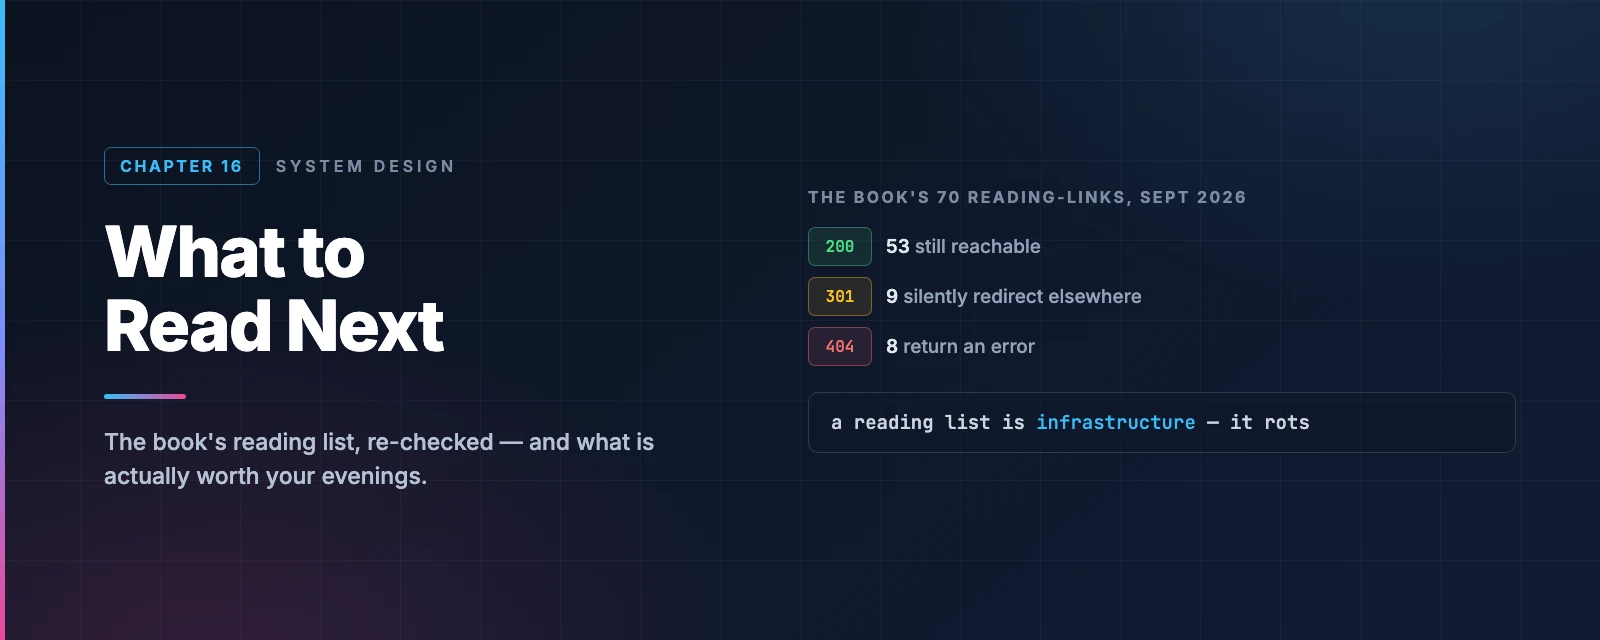
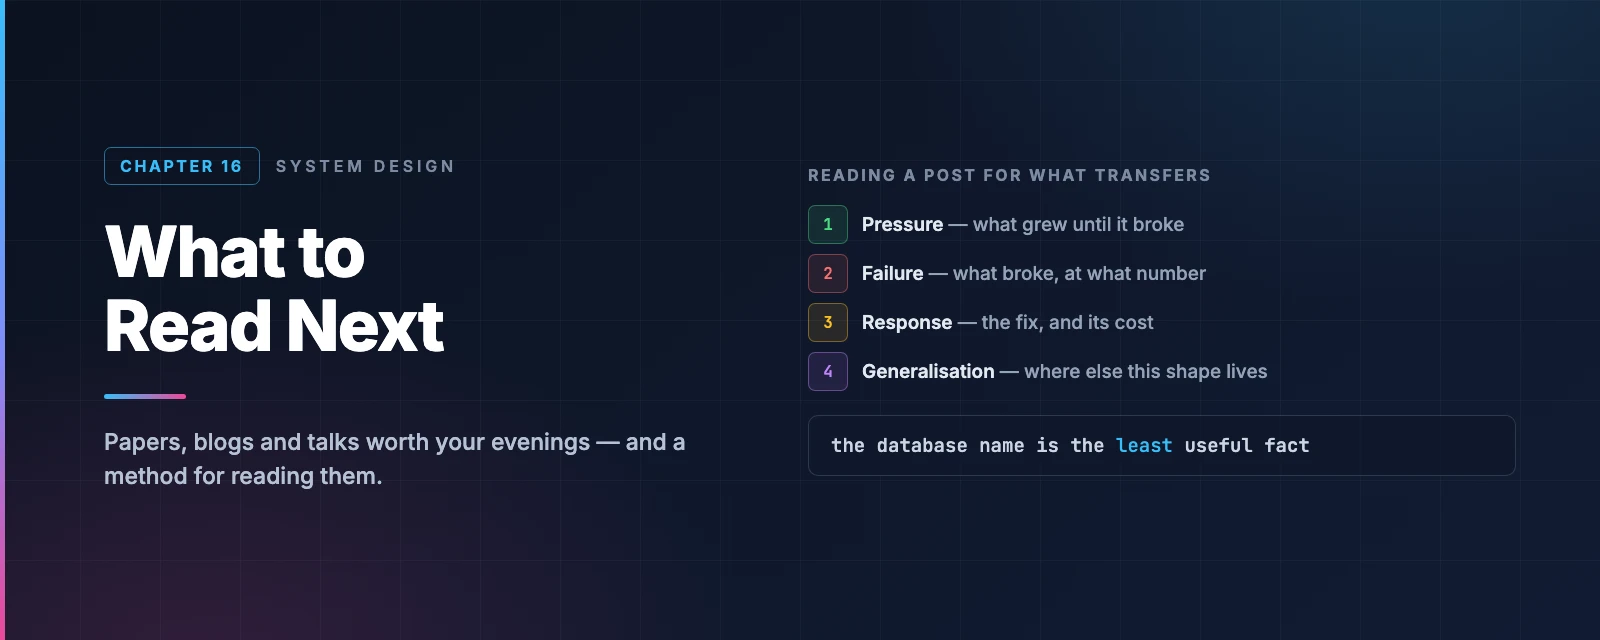
Rewrite Chapter 16 around the method, not the reading list
Drops the link-rot audit entirely — it was about how the page was made,
not about anything a reader wants. Also removes the dead-blogs section,
the "latest post" columns, and every direct reference to the source book.
Where a link had rotted, the working URL simply appears; the reader never
needs to know there was a problem.

Rewritten for readability: shorter sentences, a concrete hook, an "in a
hurry, read these three" table near the top, and the Discord worked
example restructured as two dated posts with the twist made explicit.
The cover art now shows the four-part reading method instead of HTTP
status counts.

Claude-Session: https://claude.ai/code/session_011FHXEVUEHeYNhNFmvcZZMF

Changed region(s): [[0.5, 0.25, 0.8125, 0.625], [0.0625, 0.6562, 0.4375, 0.7812], [0.5, 0.625, 0.8438, 0.7188]]

diff --git a/content/posts/2026/what-to-read-next.md b/content/posts/2026/what-to-read-next.md
@@ -3,65 +3,34 @@ title: "What to Read Next: Engineering Blogs, Papers, and How to Read Them"
 image: /images/articles/what-to-read-next.webp
 toc: true
 date: 2026-06-03T10:00:00+00:00
-description: "The book's final chapter is a reading list — and eight of its links now return an error. Here is that list rebuilt and verified for 2026, plus the engineering blogs still worth a subscription, the papers that repay the effort, and a method for reading them that turns links into knowledge."
+description: "A method for reading an engineering blog post so it leaves you with something reusable — then the papers, architecture write-ups, engineering blogs and courses worth your evenings, and a cadence that turns reading into competence."
 tags: ["system-design", "learning", "engineering-blogs", "papers", "interviews", "career"]
 categories: ["Fundamentals"]
 url: /2026/06/what-to-read-next/
 ---
 
-The last chapter of *System Design Interview* is not a design. It is a list of links — real-world architectures and company engineering blogs — with the advice that reading them regularly makes you a better engineer.
+Fifteen designs down. So — what now?
 
-That advice is correct. The list is not.
+The usual answer is a list of engineering blogs. Here is one, further down the page. But a list on its own will not make you better, and it is worth being honest about why.
 
-I checked every one of its **70 reading-list links** in September 2026. Eight return an error. Nine redirect somewhere that is no longer an engineering blog. Several more survive only because a URL shortener is still forwarding them to a page that has itself moved twice. The book was published in 2020; that is what five years does to a bibliography.
+Try this. Think of the last engineering post you read. Can you say what problem the team had, what number it broke at, and what the fix cost them?
 
-So this chapter does two things the original could not. It rebuilds the list with every link verified. And — more usefully — it argues that a list is the least valuable part of a reading habit. **What matters is the method you bring to a post once you open it.**
+Most people can't. What survives is a brand and a technology: *"Discord uses ScyllaDB."* That is the one detail in the whole article you will never be able to use.
 
----
-
-## What link rot actually looks like
-
-Here is the audit, because the shape of the decay is itself instructive:
-
-| Outcome | Count | What it means |
-|---|---:|---|
-| Reachable | 53 | Resolves to something real (17 of these block automated checks but are live) |
-| Silently redirected | 9 | Returns 200, but the destination is not the thing that was linked |
-| Error | 8 | 400, 404 or 500 |
-
-The eight errors are worth naming, because each one failed in a different way:
-
-- **Three Facebook links** now land on a login wall. Two were Facebook *Notes* — a product that was discontinued in 2020, taking its published engineering writing with it. One pointed at `code.facebook.com`, retired in favour of `engineering.fb.com`, with no redirect for deep links.
-- **Two LinkedIn links** — including "A Brief History of Scaling LinkedIn," a genuinely good post — 404. The blog moved to `linkedin.com/blog/engineering` and the old paths were not preserved.
-- **`blogs.dropbox.com/tech`** 404s; the content lives at `dropbox.tech`.
-- **BitTorrent's engineering blog** returns a 500. It has effectively been abandoned.
-
-The nine silent redirects are the more dangerous category, because nothing *looks* broken:
-
-- **`engineering.pinterest.com`** now forwards to a **recruiting page**. The engineering blog itself moved to Medium.
-- **`redditblog.com`** forwards to `redditinc.com/news` — corporate press releases, not engineering.
-- **`developer.atlassian.com/blog`** lands on an unbranded WPEngine placeholder.
-
-A reader following the book today would conclude that Pinterest stopped publishing engineering content. Pinterest publishes constantly. The link just rotted.
-
-**The lesson that generalises:** a reading list is infrastructure, and infrastructure decays. Subscribe to feeds rather than bookmarking URLs — a feed follows the publisher when they migrate; a bookmark does not.
+So let's start with how to read, and then get to what.
 
 ---
 
 ## How to read an engineering blog post
 
-This is the part the original chapter skips, and it is the part that decides whether reading pays off.
-
-Most engineers read a post like Discord's [How Discord Stores Trillions of Messages](https://discord.com/blog/how-discord-stores-trillions-of-messages) the way they read news: absorb the narrative, remember "they moved to ScyllaDB," move on. Six months later, the only retrievable fact is the database name — which is the single *least* transferable thing in the article.
-
-The useful read extracts a **problem-pressure-response triple**:
+Every good post is telling the same four-part story, whether or not the author lays it out that way. Your job is to pull those four parts out.
 
 ```mermaid
 flowchart LR
-    P["<b>The pressure</b><br/>What quantity grew<br/>until something broke?"]
-    F["<b>The failure</b><br/>What exactly failed,<br/>and at what number?"]
-    R["<b>The response</b><br/>What changed, and<br/>what did it cost?"]
-    G["<b>The generalisation</b><br/>Which of my systems<br/>has this same shape?"]
+    P["<b>1 · Pressure</b><br/>What grew until<br/>something broke?"]
+    F["<b>2 · Failure</b><br/>What broke, and<br/>at what number?"]
+    R["<b>3 · Response</b><br/>What changed, and<br/>what did it cost?"]
+    G["<b>4 · Generalisation</b><br/>Where else does this<br/>shape show up?"]
 
     P --> F --> R --> G
 
@@ -71,36 +40,58 @@ flowchart LR
     style G fill:#fef3c7,stroke:#d97706,color:#78350f
 ```
 
-Discord has in fact written two posts about the same table, six years apart, and each contains a different triple. That makes them an unusually good worked example.
+Step 4 is the whole point. Steps 1–3 are about someone else's system. Step 4 is about yours.
 
-From the earlier [How Discord Stores Billions of Messages](https://discord.com/blog/how-discord-stores-billions-of-messages) (2017):
+### Worked example: Discord, twice
 
-> **Pressure:** a single channel accumulates messages forever, so its Cassandra partition grows without bound.
-> **Failure:** large partitions create GC pressure during compaction and cluster expansion — and, as the post puts it, "the data in it cannot be distributed around the cluster."
-> **Response:** add a time dimension to the partition key — `(channel_id, bucket)`, roughly 10-day buckets — keeping partitions under about 100 MB by construction.
-> **Generalisation:** *any* partition key built from an entity that accumulates over time, with no bounding dimension, will eventually produce an unbounded partition.
+Discord has written about the same database table twice, six years apart. Two posts, two completely different problems — which makes them a perfect pair to practise on.
 
-That last line is the asset. It applies to Kafka topics, to DynamoDB, to a sharded MySQL cluster — none of which are Cassandra. One post, read this way, gives you a lens you will reuse for years.
+**[The 2017 post](https://discord.com/blog/how-discord-stores-billions-of-messages)** — billions of messages, on Cassandra.
 
-The 2023 sequel is a *different* problem wearing similar clothes, which is exactly why reading both is instructive. Bucketing bounded partition **size**, but not partition **traffic**: a channel on a server with hundreds of thousands of members takes orders of magnitude more reads than one among friends, so specific partitions ran hot regardless of how small they were. The fix was not a better key — it was a Rust data-services layer that *coalesces* concurrent requests for the same row into a single database query, with routing by channel ID so that coalescing actually lands.
+> **Pressure.** A channel collects messages forever. Its Cassandra partition just keeps growing.
+> **Failure.** Huge partitions choke garbage collection during compaction. And, as the post puts it, "the data in it cannot be distributed around the cluster."
+> **Response.** Put time in the partition key: `(channel_id, bucket)`, with roughly 10-day buckets. Now no partition can exceed about 100 MB, by construction.
+> **Generalisation.** Any partition key built from something that accumulates forever, with nothing to bound it, will eventually blow up.
 
-> **Generalisation:** bounding the size of a partition says nothing about bounding the load on it. Those are two separate design problems, and solving the first can disguise the second.
+That last line is the part you keep. It has nothing to do with Cassandra — it applies just as well to Kafka topics, DynamoDB, or a sharded MySQL cluster. One post, read this way, hands you a lens you will reuse for years.
 
-Three habits make this concrete:
+**[The 2023 post](https://discord.com/blog/how-discord-stores-trillions-of-messages)** — trillions of messages, moving to ScyllaDB.
 
-1. **Read the numbers, not the adjectives.** "Massive scale" is worthless. Discord's "177 nodes down to 72, with p99 latency for historical messages falling from 40–125 ms to 15 ms" is worth the whole post: it tells you the regime the design was built for, and lets you check whether your problem is even in the same one. Most posts describe systems 100× larger than yours, and the design that follows is frequently wrong for you.
-2. **Find the sentence where they admit a cost.** Every honest post has one — "this increased write amplification," "we accepted eventual consistency here." That sentence is where the actual engineering is. A post without one is marketing.
-3. **Ask what they rejected.** The alternatives *not* taken tell you more about the constraints than the choice itself. The best posts state them; for the rest, reconstruct them yourself. That reconstruction is the same skill an interviewer is testing.
+Here is the twist, and it is a good one. Bucketing had capped how *big* a partition could get. It did nothing about how *busy* one could get.
+
+A channel on a server with hundreds of thousands of members gets orders of magnitude more reads than a channel among five friends. Those partitions ran hot no matter how small they were. And the fix was not a cleverer key — it was a Rust service in front of the database that collapses simultaneous requests for the same row into a single query.
+
+> **Generalisation.** Capping the *size* of a partition says nothing about capping the *load* on it. Two different problems — and solving the first one can hide the second.
+
+### Three habits that make this stick
+
+**Read the numbers, skip the adjectives.** "Massive scale" tells you nothing. "177 nodes down to 72, p99 for old messages from 40–125 ms to 15 ms" tells you everything: how big this system is, and whether yours is anywhere near it. Most posts describe systems a hundred times larger than yours, and their solution is often wrong for you.
+
+**Hunt for the sentence where they admit a cost.** "This increased write amplification." "We accepted eventual consistency here." Every honest post has one, and it is where the real engineering is hiding. A post without one is a recruiting ad.
+
+**Ask what they turned down.** The options a team rejected tell you more about their constraints than the one they picked. Good posts say so outright. For the rest, work it out yourself — that is the same muscle an interviewer is testing.
 
 ---
 
-## Real-world system architectures
+## In a hurry? Read these three
 
-The book's list, verified and updated. Where the original link died I have substituted the canonical source — usually the paper, which outlives the blog post.
+The rest of this page is long. If you close the tab after this section, take these:
 
-### The foundational papers
+| | What | Why |
+|---|---|---|
+| **1** | [The Dynamo paper](https://www.read.seas.harvard.edu/~kohler/class/cs239-w08/decandia07dynamo.pdf) (an evening) | Almost everything in [Chapter 6](/2026/05/design-a-key-value-store/) comes from here. Read it and half the field clicks into place. |
+| **2** | [*Designing Data-Intensive Applications*](https://dataintensive.net/) (a few months) | The single best book in this space. Nothing else is close. |
+| **3** | [Cloudflare's blog](https://blog.cloudflare.com/) (weekly) | The most consistently excellent engineering writing published anywhere right now. |
 
-These are the documents the rest of the field is built on. Each one introduced a mechanism you have already met in this series.
+Everything below is elaboration on those three.
+
+---
+
+## Papers worth your evenings
+
+A paper is slower going than a blog post and worth far more. Blog posts get rewritten, migrated and quietly deleted; papers sit still for twenty years.
+
+Each of these introduced something you have already met in this series — which means you are reading them with the answers in hand, and that is much easier than it sounds.
 
 - **[Dynamo: Amazon's Highly Available Key-value Store](https://www.read.seas.harvard.edu/~kohler/class/cs239-w08/decandia07dynamo.pdf)** (SOSP 2007) — consistent hashing, vector clocks, quorums, hinted handoff, Merkle-tree anti-entropy. If you read one paper from this list, read this one; [Chapter 6](/2026/05/design-a-key-value-store/) is essentially an exposition of it.
 - **[The Google File System](https://static.googleusercontent.com/media/research.google.com/zh-CN/us/archive/gfs-sosp2003.pdf)** (SOSP 2003) — the single-master-plus-chunkservers design that every distributed filesystem since has argued with.
@@ -109,12 +100,14 @@ These are the documents the rest of the field is built on. Each one introduced a
 - **[TAO: Facebook's Distributed Data Store for the Social Graph](https://cs.uwaterloo.ca/~brecht/courses/854-Emerging-2014/readings/data-store/tao-facebook-distributed-datastore-atc-2013.pdf)** (ATC 2013) — a read-optimised graph cache in front of sharded MySQL. Directly relevant to [the news feed chapter](/2026/06/design-news-feed-system/).
 - **[Scaling Memcache at Facebook](https://www.cs.bu.edu/~jappavoo/jappavoo.github.com/451/papers/memcache-fb.pdf)** (NSDI 2013) — the definitive treatment of cache stampedes, leases, and regional invalidation.
 - **[MapReduce: Simplified Data Processing on Large Clusters](https://research.google/pubs/mapreduce-simplified-data-processing-on-large-clusters/)** (OSDI 2004) — historically decisive, and still the clearest statement of the "move computation to data" idea.
-- **[Spanner: Google's Globally-Distributed Database](https://static.googleusercontent.com/media/research.google.com/en//archive/spanner-osdi2012.pdf)** (OSDI 2012) — external consistency bought with atomic clocks. Not in the book, and it should be: it is the strongest counter-argument to "you must give up consistency at scale."
+- **[Spanner: Google's Globally-Distributed Database](https://static.googleusercontent.com/media/research.google.com/en//archive/spanner-osdi2012.pdf)** (OSDI 2012) — external consistency bought with atomic clocks. The strongest counter-argument to "you must give up consistency at scale," and the reason CockroachDB and Spanner-likes exist.
 - **[In Search of an Understandable Consensus Algorithm (Raft)](https://raft.github.io/raft.pdf)** (ATC 2014) — consensus explained so that you can actually implement it. The reason etcd, Consul and CockroachDB exist.
 
-### Architecture write-ups
+## Architecture write-ups
 
-High Scalability catalogued production architectures for over a decade. **Its last post was in May 2024** — the archive is dormant but still valuable, and the links below are the current, working URLs after the site's 2024 migration.
+Want the shape of a whole system rather than one mechanism? These are the ones to read.
+
+High Scalability catalogued production architectures for over a decade. It no longer publishes, but the archive is one of the best surveys of how large systems were actually assembled — and unusually, it covers the *unglamorous* decisions.
 
 - [Amazon Architecture](https://highscalability.com/amazon-architecture/) — the origin of "every service is a service," pre-dating the word microservices.
 - [Google Architecture](https://highscalability.com/google-architecture/)
@@ -129,53 +122,55 @@ High Scalability catalogued production architectures for over a decade. **Its la
 - [Flickr Architecture](https://highscalability.com/flickr-architecture/)
 - [Facebook Timeline: Brought To You By The Power Of Denormalization](https://highscalability.com/facebook-timeline-brought-to-you-by-the-power-of-denormaliza/)
 
-### Talks
+## Talks
+
+Sometimes an engineer explaining their own system out loud beats anything written down.
 
 - **[Scale at Facebook](https://www.infoq.com/presentations/Scale-at-Facebook/)** — an operations-culture talk more than an architecture talk, and better for it.
 - **[Timelines at Scale](https://www.infoq.com/presentations/Twitter-Timeline-Scalability/)** — Raffi Krikorian on Twitter's timeline. Still the best single explanation of hybrid fan-out.
 - **[YouTube Scalability](https://www.youtube.com/watch?v=w5WVu624fY8)** (Seattle Conference on Scalability)
 - **[How We've Scaled Dropbox](https://www.youtube.com/watch?v=PE4gwstWhmc)**
-- **[Erlang at Facebook](http://www.erlang-factory.com/upload/presentations/31/EugeneLetuchy-ErlangatFacebook.pdf)** — how Facebook Chat was actually built. The book's two companion links to Facebook Notes are both dead; this slide deck survives.
+- **[Erlang at Facebook](http://www.erlang-factory.com/upload/presentations/31/EugeneLetuchy-ErlangatFacebook.pdf)** — how Facebook Chat was actually built, in a language chosen specifically for holding millions of idle connections. Pairs with [Chapter 12](/2026/06/design-chat-system/).
 - **[Differential Synchronization](https://neil.fraser.name/writing/sync/)** — Neil Fraser on the algorithm behind Google Docs. Short, and it will change how you think about [conflict resolution](/2026/06/design-google-drive/).
 
 ---
 
 ## Company engineering blogs
 
-The book listed 36. Below are the ones I verified as **actively publishing in 2026** — each date is the most recent post at the time of writing, taken from the blog's own feed.
+Company blogs are recruiting instruments as much as technical ones, so they vary enormously. These are the ones that consistently publish something with a number in it.
 
 ### Consistently excellent
 
-| Blog | Latest post | Why it earns the subscription |
-|---|---|---|
-| [Cloudflare](https://blog.cloudflare.com/) | Sep 2026 | Unmatched on networking, DDoS, TLS and edge compute. Publishes real postmortems with real numbers. |
-| [Meta Engineering](https://engineering.fb.com/) | Sep 2026 | Successor to `code.facebook.com`. Storage, ML infrastructure, and the largest-scale problems anyone writes about publicly. |
-| [Netflix TechBlog](https://netflixtechblog.com/) | Aug 2026 | Streaming, chaos engineering, personalisation. The origin of a great deal of standard practice. |
-| [Uber Engineering](https://www.uber.com/blog/engineering/) | 2026 | Real-time geospatial systems, and the most candid migration write-ups in the industry. |
-| [Discord](https://discord.com/blog/tag/engineering) | Aug 2026 | Rare and specific: millions of concurrent WebSocket connections, described honestly. |
-| [Dropbox Tech](https://dropbox.tech/) | Aug 2026 | Sync, storage, and the famous move off S3. Directly relevant to [Chapter 15](/2026/06/design-google-drive/). |
-| [Stripe](https://stripe.dev/blog/topic/engineering) | Aug 2026 | Idempotency, correctness under partial failure, API design as a discipline. |
+| Blog | Why it earns the subscription |
+|---|---|
+| [Cloudflare](https://blog.cloudflare.com/) | Unmatched on networking, DDoS, TLS and edge compute. Publishes real postmortems with real numbers. |
+| [Meta Engineering](https://engineering.fb.com/) | Successor to `code.facebook.com`. Storage, ML infrastructure, and the largest-scale problems anyone writes about publicly. |
+| [Netflix TechBlog](https://netflixtechblog.com/) | Streaming, chaos engineering, personalisation. The origin of a great deal of standard practice. |
+| [Uber Engineering](https://www.uber.com/blog/engineering/) | Real-time geospatial systems, and the most candid migration write-ups in the industry. |
+| [Discord](https://discord.com/blog/tag/engineering) | Rare and specific: millions of concurrent WebSocket connections, described honestly. |
+| [Dropbox Tech](https://dropbox.tech/) | Sync, storage, and the famous move off S3. Directly relevant to [Chapter 15](/2026/06/design-google-drive/). |
+| [Stripe](https://stripe.dev/blog/topic/engineering) | Idempotency, correctness under partial failure, API design as a discipline. |
 
 ### Strong and current
 
-| Blog | Latest post | Focus |
-|---|---|---|
-| [GitHub](https://github.blog/engineering/) | Sep 2026 | Git at scale, MySQL, availability |
-| [Shopify](https://shopify.engineering/) | Sep 2026 | Flash-sale traffic spikes, Ruby at scale, sharding |
-| [Instacart](https://tech.instacart.com/) | Sep 2026 | Logistics, search, ML systems |
-| [Pinterest](https://medium.com/pinterest-engineering) | Sep 2026 | Recommendations, storage, home feed |
-| [Grab](https://engineering.grab.com/) | Sep 2026 | Real-time systems in Southeast Asia; excellent on geo |
-| [Airbnb](https://medium.com/airbnb-engineering) | Aug 2026 | Search, payments, data infrastructure |
-| [Yelp](https://engineeringblog.yelp.com/) | Aug 2026 | Search ranking, data pipelines |
-| [Spotify](https://engineering.atspotify.com/) | Aug 2026 | Event delivery, ML, developer platforms |
-| [Slack](https://slack.engineering/) | Jul 2026 | Real-time messaging, mobile sync |
-| [LinkedIn](https://www.linkedin.com/blog/engineering) | 2026 | Kafka's birthplace; graph and feed systems |
-| [Canva](https://www.canva.dev/blog/engineering/) | 2026 | Newer, unusually concrete on media processing |
-| [AWS Architecture](https://aws.amazon.com/blogs/architecture/) | 2026 | Reference patterns and well-argued trade-offs |
+| Blog | Focus |
+|---|---|
+| [GitHub](https://github.blog/engineering/) | Git at scale, MySQL, availability |
+| [Shopify](https://shopify.engineering/) | Flash-sale traffic spikes, Ruby at scale, sharding |
+| [Instacart](https://tech.instacart.com/) | Logistics, search, ML systems |
+| [Pinterest](https://medium.com/pinterest-engineering) | Recommendations, storage, home feed |
+| [Grab](https://engineering.grab.com/) | Real-time systems in Southeast Asia; excellent on geo |
+| [Airbnb](https://medium.com/airbnb-engineering) | Search, payments, data infrastructure |
+| [Yelp](https://engineeringblog.yelp.com/) | Search ranking, data pipelines |
+| [Spotify](https://engineering.atspotify.com/) | Event delivery, ML, developer platforms |
+| [Slack](https://slack.engineering/) | Real-time messaging, mobile sync |
+| [LinkedIn](https://www.linkedin.com/blog/engineering) | Kafka's birthplace; graph and feed systems |
+| [Canva](https://www.canva.dev/blog/engineering/) | Newer, unusually concrete on media processing |
+| [AWS Architecture](https://aws.amazon.com/blogs/architecture/) | Reference patterns and well-argued trade-offs |
 
-### Individual writers worth more than most company blogs
+### Individuals, who are often better than the companies
 
-Company blogs are, ultimately, recruiting instruments. These are not.
+Company blogs are recruiting instruments with engineering content attached. These are just engineers writing.
 
 - **[Marc Brooker](https://brooker.co.za/blog/)** (AWS) — short essays on distributed systems that are frequently better than the papers they discuss. Start with anything on timeouts or retries.
 - **[Werner Vogels — All Things Distributed](https://www.allthingsdistributed.com/)** — Amazon's CTO, writing since 2004.
@@ -184,22 +179,9 @@ Company blogs are, ultimately, recruiting instruments. These are not.
 - **[Murat Demirbas](https://muratbuffalo.blogspot.com/)** — a distributed systems researcher's paper reviews. The fastest way to decide whether a paper is worth your evening.
 - **[The Pragmatic Engineer](https://newsletter.pragmaticengineer.com/)** — Gergely Orosz on how engineering organisations actually operate. Adjacent to system design, and the adjacency matters.
 
-### What the book listed that is no longer worth following
+## Books, courses and the deep end
 
-Named explicitly so you do not go looking:
-
-- **BitTorrent Engineering** — returns a 500; abandoned.
-- **Atlassian Developer Blog** — now a WPEngine placeholder.
-- **Yahoo Engineering (Tumblr)** — long dormant.
-- **Reddit** — `redditblog.com` now forwards to corporate press releases.
-- **Mixpanel, Groupon, Nextdoor, Thumbtack** — technically alive, but publishing rarely enough that a subscription costs more attention than it returns.
-- **High Scalability** — no new posts since May 2024. Read the archive; do not wait for updates.
-
----
-
-## Beyond blogs
-
-Blogs tell you what one company did. These tell you why it works.
+Blogs tell you what one company did on one Tuesday. These tell you why any of it works.
 
 **Books**
 
@@ -220,19 +202,19 @@ Blogs tell you what one company did. These tell you why it works.
 **Aggregators**
 
 - **[System Design Primer](https://github.com/donnemartin/system-design-primer)** — still the most-starred system design resource on GitHub, and still a good index.
-- **[Awesome Scalability](https://github.com/binhnguyennus/awesome-scalability)** — a curated, maintained architecture list. Effectively the living version of this chapter.
+- **[Awesome Scalability](https://github.com/binhnguyennus/awesome-scalability)** — a curated, actively maintained architecture list. The closest thing to a living version of this page.
 - **[Martin Fowler's architecture guide](https://martinfowler.com/architecture/)** — patterns and vocabulary, precisely defined.
 
 ---
 
 ## Turning reading into competence
 
-Reading widely and learning nothing is a common outcome. The difference is what you do after you close the tab.
+It is entirely possible to read constantly and learn nothing. Plenty of people manage it. What separates them from everyone else is what happens after the tab closes.
 
 ```mermaid
 flowchart TD
     A["Read one post per week<br/>from a feed you subscribed to"]
-    B["Extract the triple:<br/>pressure → failure → response"]
+    B["Pull out the four parts:<br/>pressure, failure,<br/>response, generalisation"]
     C["Write 3 sentences<br/>in your own words"]
     D["Ask: which system I own<br/>has this same shape?"]
     E["Re-derive the design<br/>from scratch, a month later"]
@@ -247,32 +229,38 @@ flowchart TD
     style F fill:#dcfce7,stroke:#16a34a,color:#14532d
 ```
 
-The re-derivation step is the one everyone skips, and it is the only one that proves anything. A month after reading the Dynamo paper, can you explain — without looking — why hinted handoff exists, and what breaks without it? If not, you have a memory of having read it, which is a different asset entirely, and worth much less.
+That re-derivation step is the one everybody skips. It is also the only one that proves anything.
+
+Here is the test. A month after reading the Dynamo paper, close the tab and explain why hinted handoff exists and what breaks without it. If you can't, you do not know the paper — you remember *having read* it. Those feel identical from the inside and are worth wildly different amounts.
 
 **A concrete cadence that works:**
 
 | Frequency | Practice |
 |---|---|
-| Weekly | One engineering blog post, read for the triple. Three sentences written down. |
-| Monthly | One paper. Slowly. Kleppmann's book as a decoder ring when it gets hard. |
+| Weekly | One blog post, read for the four parts. Three sentences written down. |
+| Monthly | One paper, slowly. Keep Kleppmann next to you as a decoder ring. |
 | Quarterly | Re-derive one design from memory, then compare against the original. |
-| Continuously | When you hit a problem at work, find who has published about it. Someone has. |
+| Whenever you're stuck | Hit a problem at work? Go find who has already written about it. Someone has. |
 
-That last row is the highest-yield habit in the table. Reading about consistent hashing in the abstract is mildly interesting. Reading about it the week you are staring at an unbalanced shard is how it becomes permanent.
+That last row is worth more than the other three combined. Reading about consistent hashing on a quiet Sunday is mildly interesting. Reading about it the week you are staring at one shard carrying 40% of your traffic is how it becomes permanent.
 
 ---
 
-## A closing note on the series
+## One last thing
 
-Fifteen chapters, and the striking thing in retrospect is **how few distinct mechanisms there actually are.**
+Looking back over fifteen chapters, the striking thing is **how few ideas there actually were.**
 
 Partition to distribute load. Replicate to survive failure. Cache to avoid repeating work. Queue to decouple producers from consumers. Denormalise to trade write cost for read speed. Batch to amortise. Version to detect conflict.
 
-That is close to the whole vocabulary. YouTube, Google Drive, a news feed and a chat system are all built from those seven ideas, combined in different proportions under different constraints. A rate limiter and a URL shortener look like different problems and are the same problem — bounded state, high read volume, tolerance for approximation — wearing different clothes.
+Seven ideas. That is very nearly the whole vocabulary.
 
-This is why the reading habit compounds. Each new architecture you read is not a new thing to memorise; it is another data point on how the same seven mechanisms behave under a constraint you had not seen before. After twenty such posts, you stop reading them as stories and start reading them as **variations**. That is the point at which system design stops feeling like an interview topic and starts feeling like a way of seeing.
+YouTube, Google Drive, a news feed and a chat system are all the same seven, mixed in different proportions under different pressures. A rate limiter and a URL shortener look like completely different problems. They are the same problem in different clothes: bounded state, enormous read volume, and enough tolerance for approximation to get away with it.
 
-The list above is a starting point that will itself rot — that is what lists do. The method is what lasts.
+This is why reading compounds. Each new architecture is not another thing to memorise — it is one more data point on how those same seven behave under a pressure you had not seen before.
+
+Around the twentieth post, something shifts. You stop reading them as stories and start reading them as **variations**. That is when system design stops being an interview topic and starts being a way of looking at things.
+
+The list above is a starting point, and starting points go stale. The method is what lasts.
 
 ---
 
@@ -313,7 +301,7 @@ The list above is a starting point that will itself rot — that is what lists d
 **In this series**
 
 <ul>
-<li><a href="/guide/">The complete guide</a> — all sixteen chapters in order</li>
+<li><a href="/guide/">The complete guide</a> — every article in order</li>
 <li><a href="/2026/05/scale-from-zero-to-millions/">Chapter 1: Scale From Zero to Millions of Users</a></li>
 <li><a href="/2026/05/design-a-key-value-store/">Chapter 6: Design a Key-Value Store</a> — the Dynamo paper, worked through</li>
 <li><a href="/2026/06/design-google-drive/">Chapter 15: Design Google Drive</a></li>

diff --git a/content/pages/guide.md b/content/pages/guide.md
@@ -62,7 +62,7 @@ Full consumer products. Each one takes the building blocks above and pushes them
 
 ## Part 5: Keep Going
 
-16. [What to Read Next](/2026/06/what-to-read-next/) — the book's reading list rebuilt and link-checked for 2026, the engineering blogs still worth a subscription, and a method for reading them that turns links into knowledge.
+16. [What to Read Next](/2026/06/what-to-read-next/) — a method for reading an engineering post so it leaves you something reusable, then the papers, blogs and courses worth your evenings.
 
 ---
 
